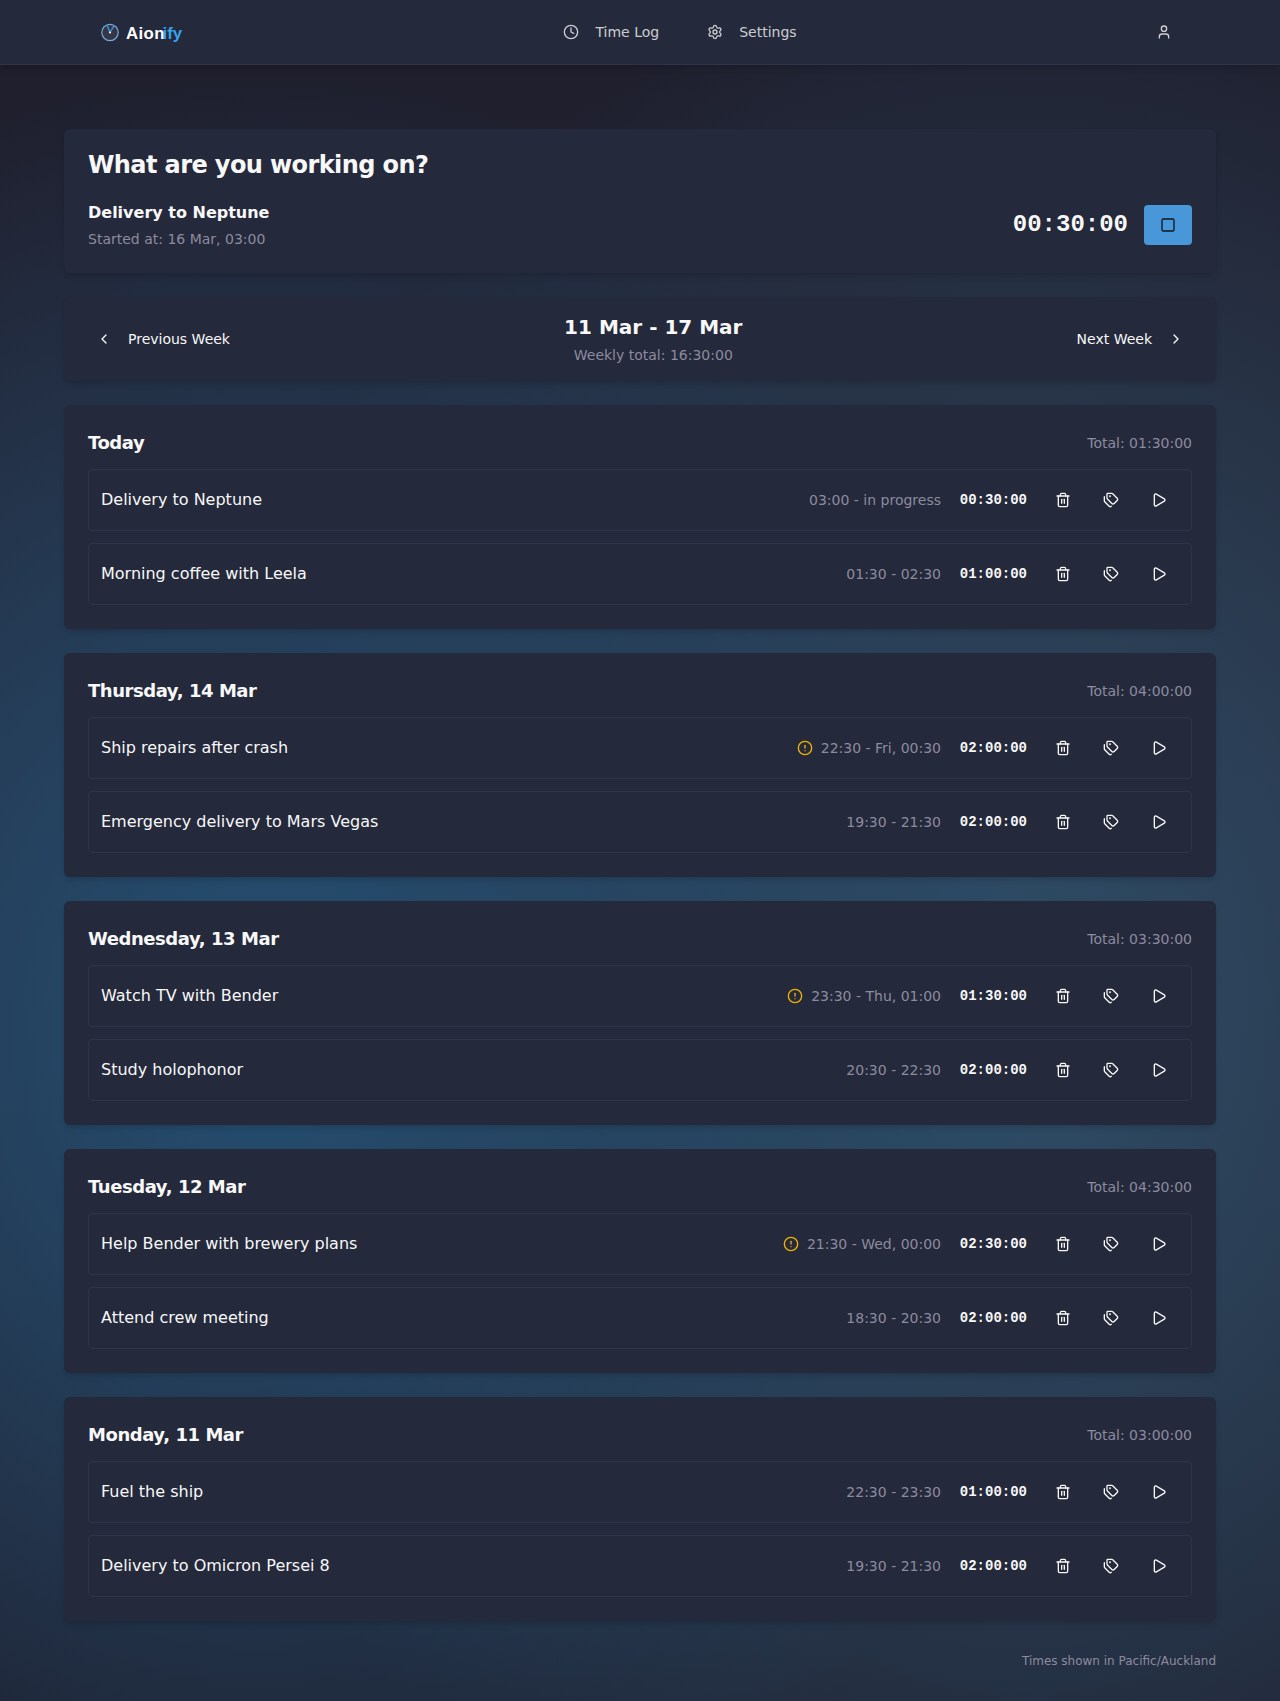
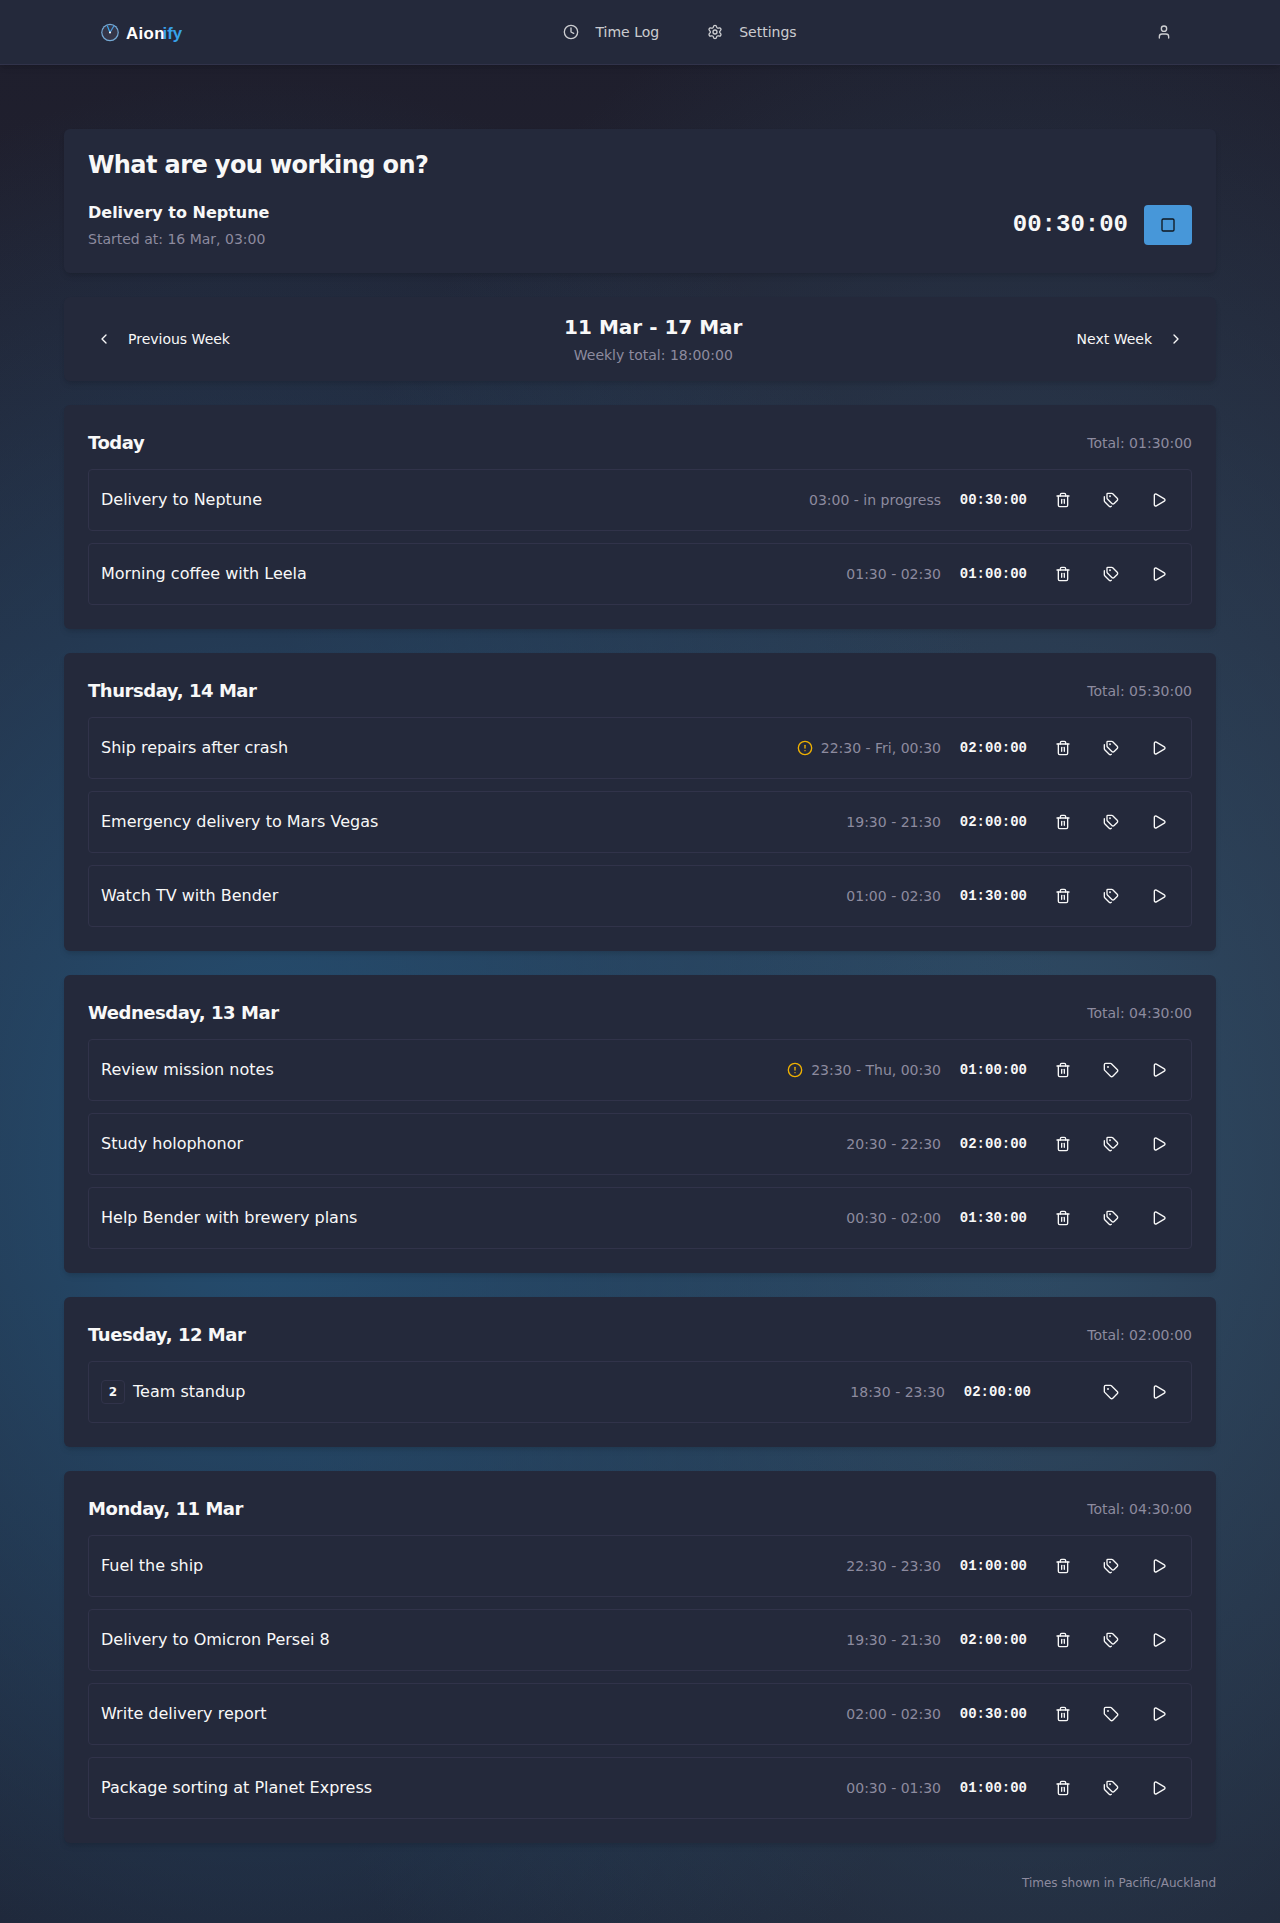
docs: update demo data to show grouped and tag-less time entries

diff --git a/src/test/kotlin/io/orangebuffalo/aionify/DemoScreenshotTest.kt b/src/test/kotlin/io/orangebuffalo/aionify/DemoScreenshotTest.kt
@@ -61,29 +61,56 @@ class DemoScreenshotTest : PlaywrightTestBase() {
 
         // setBaseTime("2024-03-16", "03:30") is Saturday, March 16, 2024 at 03:30 NZDT (Friday Mar 15 14:30 UTC)
         // Week is Mon Mar 11 - Sun Mar 17
+        //
+        // Data is structured to showcase:
+        //   - Grouped entries WITH tags (Package sorting ×2 on Monday)
+        //   - Grouped entries WITHOUT tags (Team standup ×2 on Wednesday)
+        //   - Individual entries WITH tags (Delivery to the Moon, etc.)
+        //   - Individual entries WITHOUT tags (Write delivery report on Monday, Review mission notes on Thursday)
 
-        // Monday (Mar 11) - Package deliveries
+        // Monday (Mar 11) - Grouped entries with tags + individual entries with and without tags
         val monday = setBaseTime("2024-03-16", "03:30").minusSeconds(5 * 24 * 3600)
+        // Individual WITH tags
         testDatabaseSupport.insert(
             TimeLogEntry(
-                startTime = monday.minusSeconds(7 * 3600),
-                endTime = monday.minusSeconds(5 * 3600),
+                startTime = monday.minusSeconds(8 * 3600),
+                endTime = monday.minusSeconds(6 * 3600),
                 title = "Delivery to the Moon",
                 ownerId = fryId,
                 tags = arrayOf("delivery", "space-travel"),
             ),
         )
+        // Group WITH tags (2 entries, same title+tags → will be grouped in UI)
         testDatabaseSupport.insert(
             TimeLogEntry(
-                startTime = monday.minusSeconds(4 * 3600),
+                startTime = monday.minusSeconds(5 * 3600),
+                endTime = monday.minusSeconds(4 * 3600),
+                title = "Package sorting at Planet Express",
+                ownerId = fryId,
+                tags = arrayOf("delivery"),
+            ),
+        )
+        testDatabaseSupport.insert(
+            TimeLogEntry(
+                startTime = monday.minusSeconds(3 * 3600),
                 endTime = monday.minusSeconds(2 * 3600),
                 title = "Package sorting at Planet Express",
                 ownerId = fryId,
                 tags = arrayOf("delivery"),
             ),
         )
+        // Individual WITHOUT tags
+        testDatabaseSupport.insert(
+            TimeLogEntry(
+                startTime = monday.minusSeconds(1 * 3600 + 1800),
+                endTime = monday.minusSeconds(1 * 3600),
+                title = "Write delivery report",
+                ownerId = fryId,
+                tags = arrayOf(),
+            ),
+        )
 
-        // Tuesday (Mar 12) - More deliveries
+        // Tuesday (Mar 12) - Regular entries
         val tuesday = setBaseTime("2024-03-16", "03:30").minusSeconds(4 * 24 * 3600)
         testDatabaseSupport.insert(
             TimeLogEntry(
@@ -104,21 +131,32 @@ class DemoScreenshotTest : PlaywrightTestBase() {
             ),
         )
 
-        // Wednesday (Mar 13) - Mixed tasks
+        // Wednesday (Mar 13) - Grouped entries WITHOUT tags + individual WITH tags
         val wednesday = setBaseTime("2024-03-16", "03:30").minusSeconds(3 * 24 * 3600)
+        // Group WITHOUT tags (2 entries, same title, no tags → will be grouped in UI)
         testDatabaseSupport.insert(
             TimeLogEntry(
                 startTime = wednesday.minusSeconds(9 * 3600),
-                endTime = wednesday.minusSeconds(7 * 3600),
-                title = "Attend crew meeting",
+                endTime = wednesday.minusSeconds(8 * 3600),
+                title = "Team standup",
                 ownerId = fryId,
-                tags = arrayOf("meeting", "delivery"),
+                tags = arrayOf(),
             ),
         )
         testDatabaseSupport.insert(
             TimeLogEntry(
-                startTime = wednesday.minusSeconds(6 * 3600),
-                endTime = wednesday.minusSeconds(3 * 3600 + 1800),
+                startTime = wednesday.minusSeconds(5 * 3600),
+                endTime = wednesday.minusSeconds(4 * 3600),
+                title = "Team standup",
+                ownerId = fryId,
+                tags = arrayOf(),
+            ),
+        )
+        // Individual WITH tags
+        testDatabaseSupport.insert(
+            TimeLogEntry(
+                startTime = wednesday.minusSeconds(3 * 3600),
+                endTime = wednesday.minusSeconds(1 * 3600 + 1800),
                 title = "Help Bender with brewery plans",
                 ownerId = fryId,
                 tags = arrayOf("learning", "break"),
@@ -136,10 +174,20 @@ class DemoScreenshotTest : PlaywrightTestBase() {
                 tags = arrayOf("learning"),
             ),
         )
+        // Individual WITHOUT tags
         testDatabaseSupport.insert(
             TimeLogEntry(
                 startTime = thursday.minusSeconds(4 * 3600),
-                endTime = thursday.minusSeconds(2 * 3600 + 1800),
+                endTime = thursday.minusSeconds(3 * 3600),
+                title = "Review mission notes",
+                ownerId = fryId,
+                tags = arrayOf(),
+            ),
+        )
+        testDatabaseSupport.insert(
+            TimeLogEntry(
+                startTime = thursday.minusSeconds(2 * 3600 + 1800),
+                endTime = thursday.minusSeconds(1 * 3600),
                 title = "Watch TV with Bender",
                 ownerId = fryId,
                 tags = arrayOf("break"),
